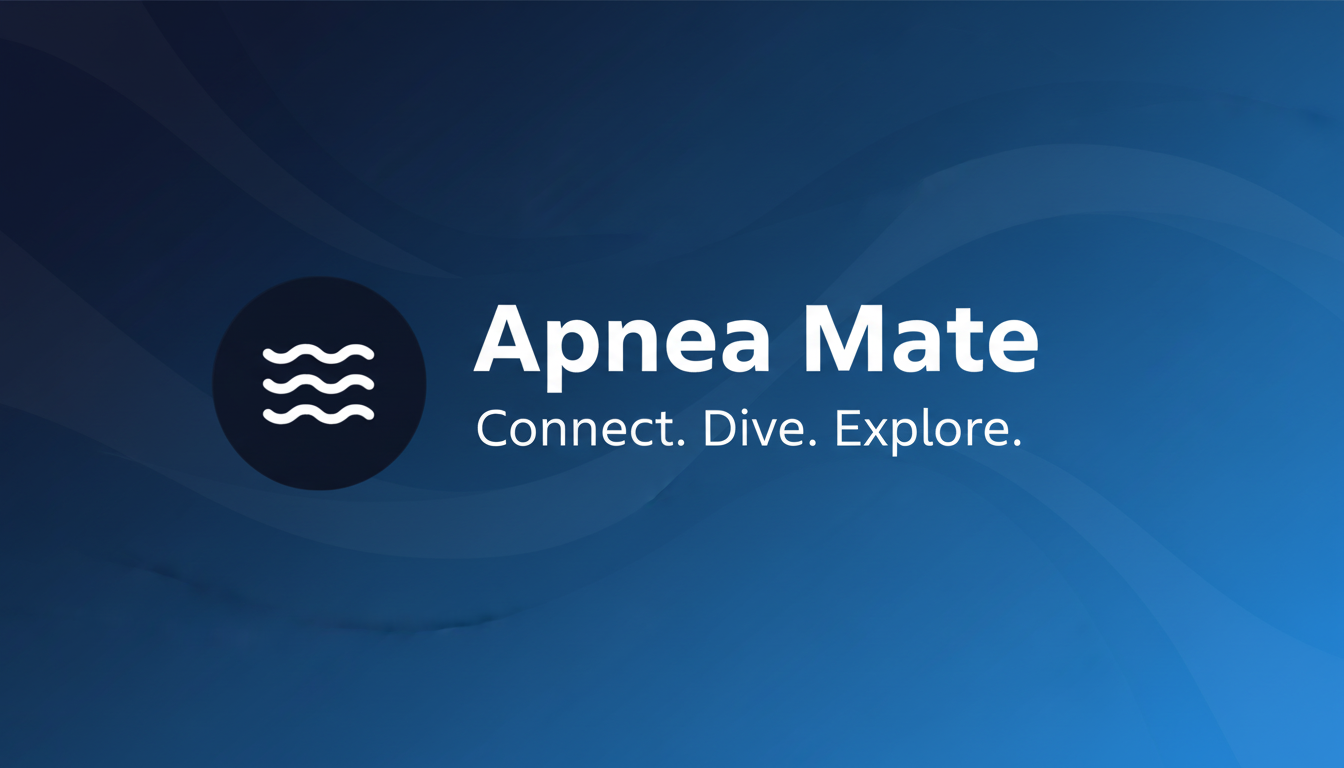
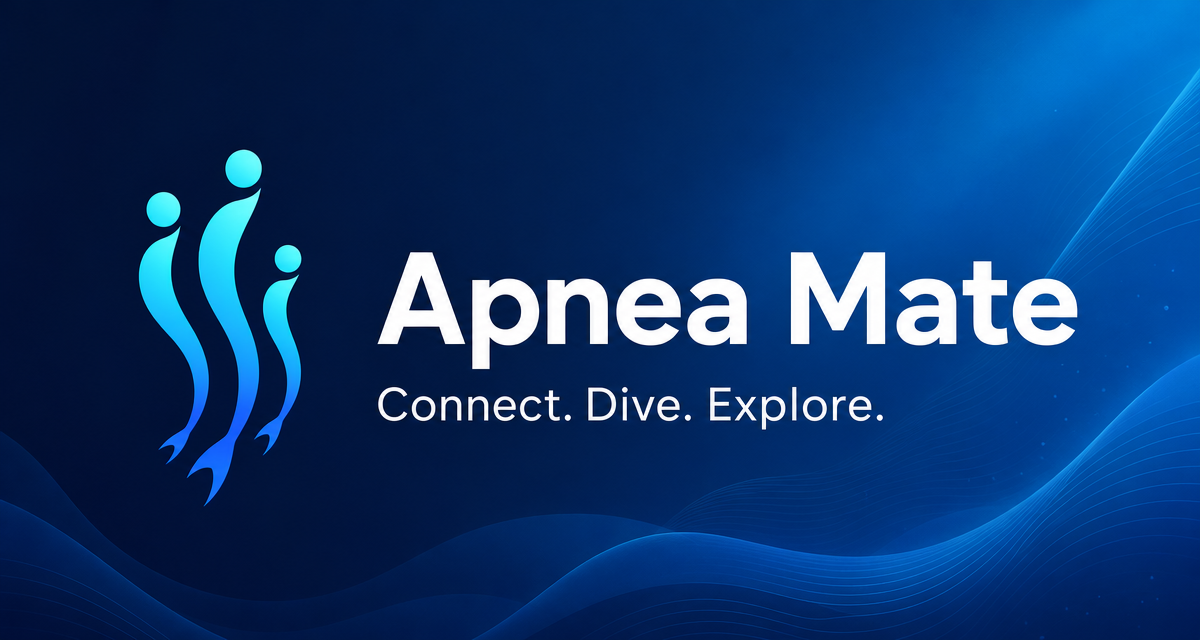
Changes

diff --git a/.lovable/plan.md b/.lovable/plan.md
@@ -1,47 +1,27 @@
-## Diagnosis
+## Problem
 
-Rechecking the situation — I was wrong in the previous turn:
+Sharing the app link shows the old wave logo. That's because `public/og-image.png` is still the old design (dark navy background + old circular wave icon + "Connect. Dive. Explore." tagline). The current brand uses the "three freedivers" gradient logo in `src/assets/logos/`. `index.html` correctly points `og:image` and `twitter:image` to `/og-image.png` — the file itself just needs to be regenerated.
 
-- The workspace has 3 verified domains: `apneamate.com`, `apnea-mate-pro.com`, `staging.apneamate.com`.
-- The project's email is actually configured on **`notify.apneamate.com`** — a subdomain of `apneamate.com` that Lovable manages via NS delegation (`ns3/ns4.lovable.cloud`). That's where SPF/DKIM (`pdk1._domainkey`) actually live and where Mailgun signs from.
-- `notify.apneamate.com` is **not being introduced by mistake** — it's the correct verified sending subdomain. This is exactly how Lovable Emails is designed: delegate a subdomain, manage DKIM/SPF there, keep the root clean.
+## Also worth fixing (small)
 
-**The actual bug** is in `supabase/functions/_shared/email-env.ts`: it defaults `SENDER_DOMAIN` (used for Mailgun API domain lookup) to the root `apneamate.com`, but the verified/DKIM-signed domain is `notify.apneamate.com`. No `EMAIL_SENDER_DOMAIN` / `EMAIL_FROM_DOMAIN` secrets are set to override the defaults. This is why headers show `dkim=permerror` + `spf=none`: emails are submitted against the wrong Mailgun domain.
-
-Also noted: leftover secrets `RESEND_API_KEY` and `RESEND_FROM_EMAIL` from a previous Resend setup. Not referenced by any current code.
-
-## What the values should be
-
-| Constant | Purpose | Correct value |
-|---|---|---|
-| `SENDER_DOMAIN` | Mailgun API domain — must match the verified/DKIM-signed subdomain | `notify.apneamate.com` |
-| `FROM_DOMAIN` | Visible From address domain in the inbox | `apneamate.com` (users see `noreply@apneamate.com`) |
-| `ROOT_DOMAIN` | Used for links in email templates | `apneamate.com` |
-
-Inbox result: From = `Apnea Mate <noreply@apneamate.com>`, DKIM signed by `notify.apneamate.com` → `dkim=pass`, `spf=pass`, aligned via organizational domain.
+- `og:url` in `index.html` is `https://apnea-mate.lovable.app`, but the head-metadata guide says canonical/og:url should point at the project domain `https://apneamate.com`. Same for the OG image URL host.
+- `public/favicon.png` — check whether it's already the new pictogram or still the old wave; update if stale so browser tabs match the brand.
 
 ## Plan
 
-1. Edit `supabase/functions/_shared/email-env.ts`:
-   - Change `SENDER_DOMAIN` default from `"apneamate.com"` → `"notify.apneamate.com"`.
-   - Keep `FROM_DOMAIN` default = `apneamate.com` (visible From on the root).
-   - Keep `ROOT_DOMAIN` default = `apneamate.com`.
-2. Redeploy the two functions that use these constants in the outgoing envelope:
-   - `send-transactional-email`
-   - `auth-email-hook`
-   (`process-email-queue`, `handle-email-unsubscribe`, `handle-email-suppression` don't touch these constants.)
-3. Optional cleanup (ask before doing): delete the unused `RESEND_API_KEY` and `RESEND_FROM_EMAIL` secrets — legacy from a previous Resend setup, no code references remain.
-4. Verify: trigger a password reset, open the raw headers, confirm `dkim=pass header.d=notify.apneamate.com`, `spf=pass`, and `From: Apnea Mate <noreply@apneamate.com>`.
+1. **Generate a new `public/og-image.png`** (1200×630, standard OG size) using the new brand:
+   - New "three freedivers" gradient pictogram from `src/assets/logos/apnea_mate_pittogramma_white.png` on the left.
+   - "Apnea Mate" wordmark + tagline "Connect. Dive. Explore." in white on the right.
+   - Deep navy → blue gradient background matching the app theme.
+   - Use `imagegen` at premium quality (text legibility matters for social previews).
+2. **Update `public/favicon.png`** to the new pictogram if it's still the old icon — replace with a square export of `apnea_mate_pittogramma.png` (or a rounded-square variant so it reads well at 32×32).
+3. **Fix `index.html` head**:
+   - Change `og:url` to `https://apneamate.com`.
+   - Change `og:image` and `twitter:image` to `https://apneamate.com/og-image.png`.
+   - Add a `<link rel="canonical" href="https://apneamate.com/">` (currently missing).
+4. **Publish** so the new image is served on `apneamate.com`. Tell the user: social platforms (WhatsApp, LinkedIn, Facebook, iMessage, X) cache preview images aggressively — they may need to force a refresh via each platform's link-preview debugger (Facebook Sharing Debugger, LinkedIn Post Inspector, X Card Validator) to see the new logo immediately.
 
-## No hardcoded wrong values elsewhere
+## Confirm before I proceed
 
-Grep confirms the only places touching sender/from domain are `email-env.ts` (defaults) and the two functions above (which import from it). No stray hardcoded domain strings in send paths.
-
-## DNS
-
-Nothing to change at IONOS. The NS delegation is already in place and Lovable manages the DKIM/SPF records inside the delegated subdomain automatically.
-
-## Risks
-
-- Purely a code change. A couple of emails during the brief redeploy window may still use the old build.
-- If you'd prefer users to see `noreply@notify.apneamate.com` in their inbox instead of `noreply@apneamate.com`, we can flip `FROM_DOMAIN` too — but the root as visible From is the cleaner branding choice.
+- OK to regenerate `og-image.png` with the new "three freedivers" gradient pictogram + wordmark + tagline on the navy-blue gradient background?
+- Do you also want the favicon updated (if it's still the old wave), or leave that alone for this pass?
